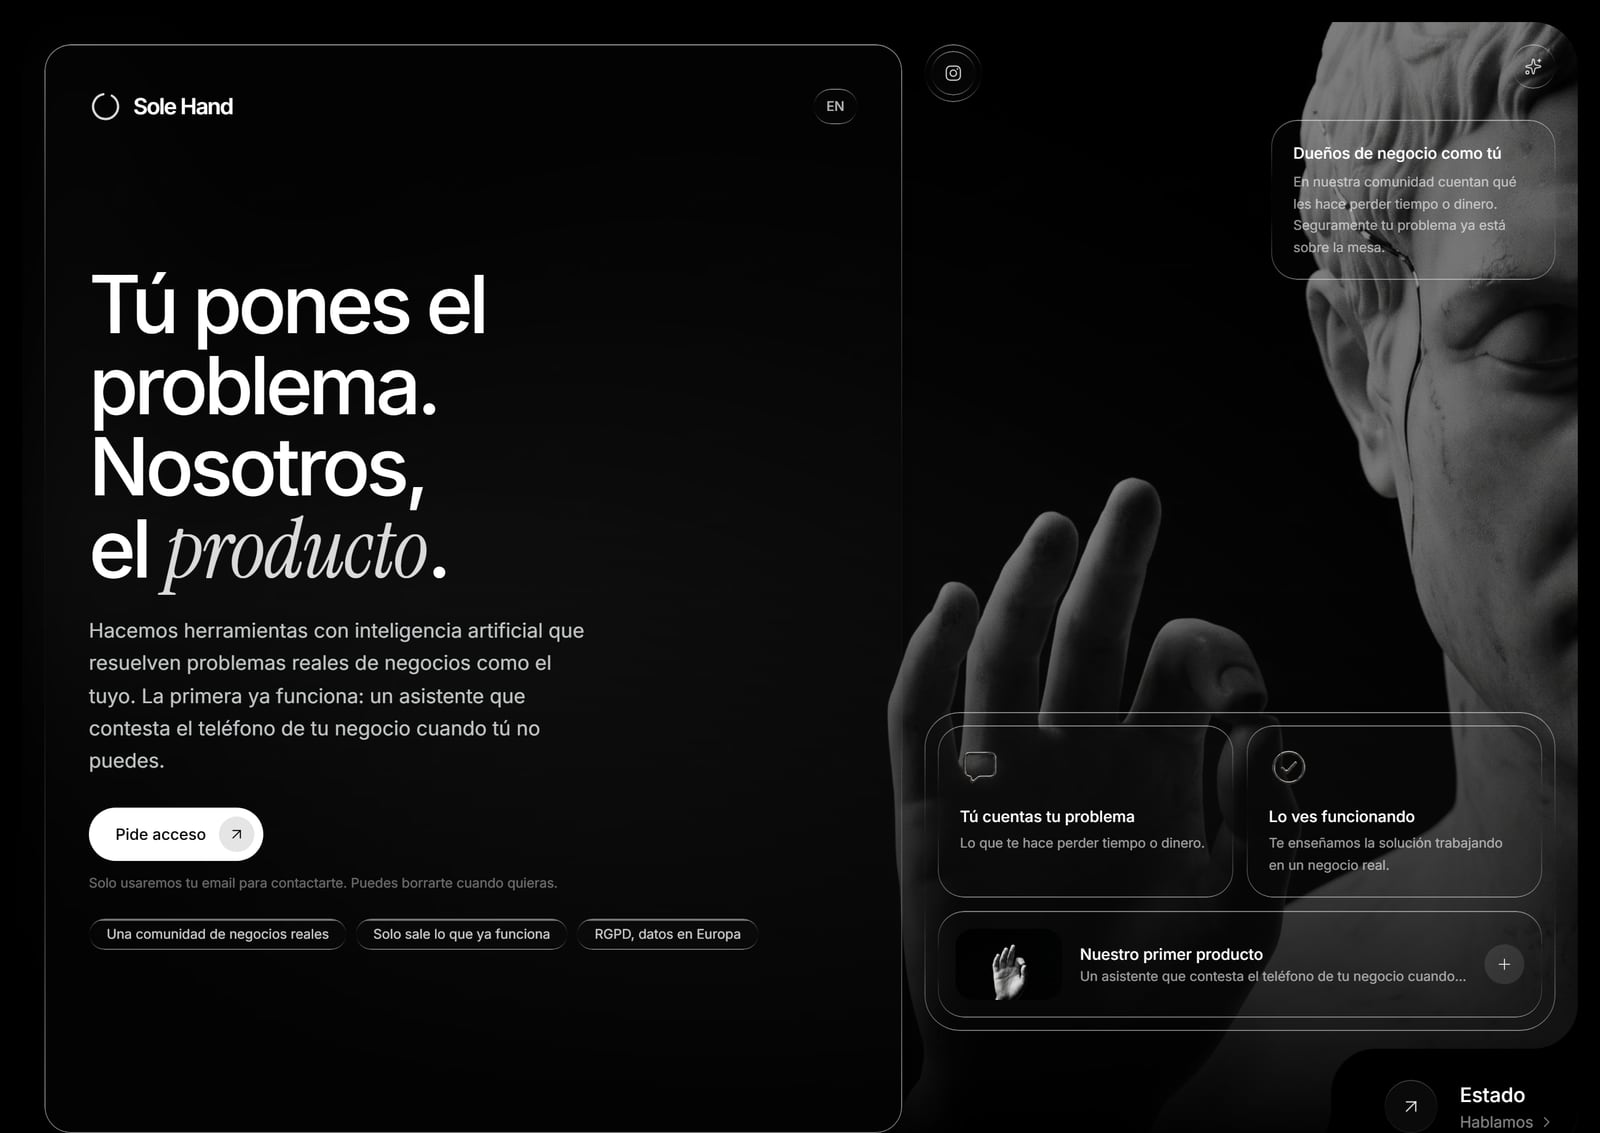
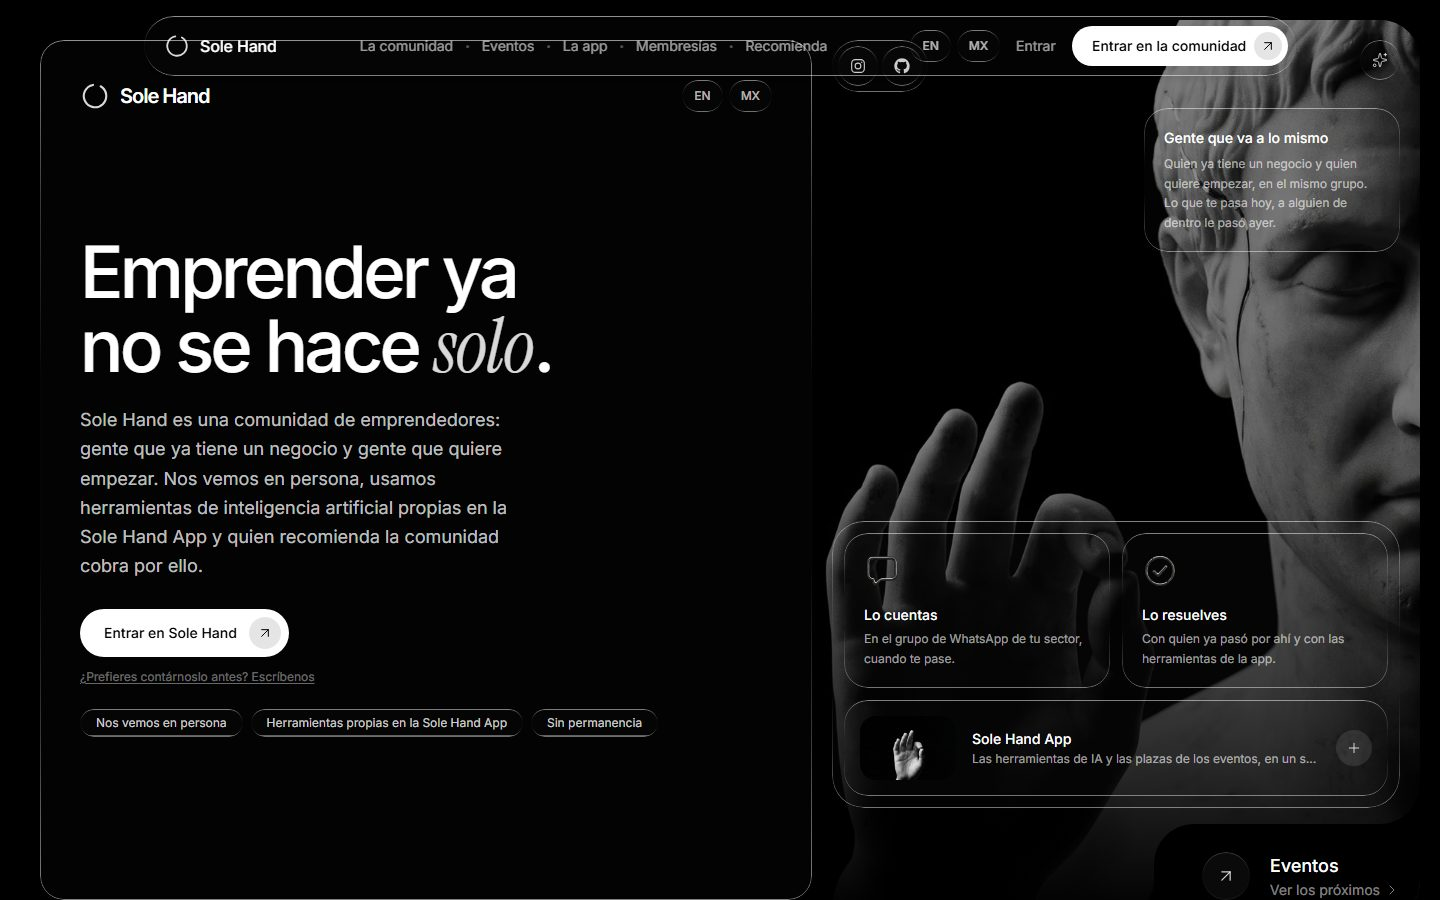
El escaparate cuenta la comunidad de emprendedores: README bilingüe sin precios, capturas de la web nueva y bitácora al día

diff --git a/README.md b/README.md
@@ -2,120 +2,142 @@
   <img src="media/marca.png" alt="Sole Hand" width="340">
 </p>
 
-<h3 align="center">Tú pones el problema. Nosotros, el producto.</h3>
+<h3 align="center">Emprender ya no se hace solo.</h3>
 
 <p align="center">
-  <a href="https://solehand.com">solehand.com</a> · español / english
+  <a href="https://solehand.com">solehand.com</a> · <a href="#español">español</a> / <a href="#english">english</a>
 </p>
 
 ---
 
-Sole Hand es una agencia de inteligencia artificial para negocios en España, construida con una regla simple: **no se vende nada que no esté ya funcionando en un negocio real**.
+## Español
 
-Este repositorio es el escaparate público del proyecto: qué se está construyendo, en qué estado está y cómo está hecho por dentro, a nivel de arquitectura. El código de producción vive en repositorios privados.
+Sole Hand es una comunidad de emprendedores: gente que ya tiene un negocio y gente que quiere empezar. Nos vemos en persona, usamos herramientas de inteligencia artificial propias en la Sole Hand App y quien recomienda la comunidad cobra por ello.
+
+Este repositorio es el escaparate público del proyecto: qué se está construyendo, en qué estado está y cómo está hecho por dentro, a nivel de arquitectura. El código de producción vive en repositorios privados. Aquí no hay precios: están en la web, que es donde se auditan.
 
 ![Portada de solehand.com](media/web-hero.jpg)
 
-## Qué hay construido
+### Qué hay construido
 
-### El agente de voz
+#### La comunidad
 
-El primer producto. Un asistente que atiende el teléfono entrante de un negocio cuando su equipo no puede: fuera de horario, cuando comunica o cuando entran varias llamadas a la vez.
-
-| Hace | No hace |
-| --- | --- |
-| Contesta en castellano, sin dejar sonar el teléfono | No decide por el negocio |
-| Recoge la cita completa: nombre, motivo y hora preferida | No escribe directamente en la agenda |
-| Se presenta como asistente virtual nada más descolgar | No se hace pasar por una persona |
-| Deja un resumen claro de cada llamada | No obliga a escuchar grabaciones |
-
-La frontera está puesta a propósito: el agente recoge y entrega, y la última palabra siempre es de una persona. De ahí el nombre del proyecto.
-
-![Sección del agente de voz](media/web-agente.jpg)
-
-### La comunidad
-
-Un grupo privado de dueños de negocio donde cada uno pone sobre la mesa lo que le hace perder tiempo o dinero. Cada dos semanas hay una sesión en directo de 90 minutos: un negocio cuenta su caso y el resto aporta. Dentro se ven las soluciones funcionando antes que nadie.
-
-Empezó en WhatsApp, que era lo que había a mano en agosto para no hacer esperar a nadie, y desde entonces tiene casa propia: la plataforma que se cuenta más abajo. 19 € al mes, sin permanencia. El alta es directa: se registra uno mismo y entra.
+Quien lleva años con su negocio y quien está montando el primero, en el mismo sitio. La conversación vive en grupos de WhatsApp por sector; las quedadas van incluidas en todas las membresías; los eventos y retiros que se organizan llevan su ficha (cuándo, dónde, qué incluye, qué no y en qué membresías va incluida la entrada) y las plazas se reservan desde la app por orden de reserva.
 
 ![Sección de la comunidad](media/web-comunidad.jpg)
 
-### La plataforma
+#### Los eventos
 
-La casa de los socios. Empezó como una comunidad prestada en WhatsApp y hoy es una aplicación propia donde vive todo: la conversación, las sesiones, las herramientas que cada negocio tiene contratadas y la relación con el equipo.
+Nos vemos en persona. Cada evento se publica desde un único fichero de contenido tipado: si a una ficha le falta la fecha, qué incluye, qué no incluye o las membresías que la incluyen, la web no compila. El viaje y los traslados nunca van incluidos, y las plazas nunca se sortean.
 
-![La comunidad por dentro](media/app-comunidad.jpg)
+![Sección de eventos](media/web-eventos.jpg)
 
-**La comunidad, por dentro.** La conversación está repartida en tres canales —los avisos del equipo, la mesa donde se habla y los eventos— y dentro de cada uno hay publicaciones, personas y mensajes directos. Se puede publicar con imágenes y archivos, responder en hilos de hasta tres niveles, reaccionar y seguir a alguien. Lo que en un grupo de WhatsApp se pierde a los dos días, aquí se queda donde se puede encontrar.
+#### La Sole Hand App
 
-| Un hilo abierto | La portada de cada socio |
-| --- | --- |
-| ![Una publicación con sus respuestas](media/app-hilo.jpg) | ![La portada, con lo que toca atender](media/app-portada.jpg) |
+La casa de las herramientas y de los eventos. Dentro viven las herramientas de inteligencia artificial propias, que nacen de los problemas que los socios ponen sobre la mesa y van dentro de la cuota; la reserva de plazas en los eventos; la cuenta de cada socio y, para quien recomienda, su portal de afiliado. Ninguna herramienta es el producto: la comunidad lo es.
 
-**La portada** no es un panel de métricas: es lo que hay que atender hoy. Arriba, una cifra que resume el mes; debajo, lo que está esperando a esa persona en concreto. Cada socio ve su propia actividad y solo la suya.
+![Sección de la app](media/web-app.jpg)
 
-**Las herramientas** se contratan una a una y cada negocio ve las que tiene. Junto a ellas está el laboratorio: lo que se está construyendo ahora mismo, en qué fase va y quién lo pidió. Es la regla del proyecto puesta a la vista, porque cada herramienta sale del problema que alguien contó en la mesa.
+| La portada de cada socio | Las herramientas y el laboratorio | En el móvil |
+| --- | --- | --- |
+| ![La portada](media/app-portada.jpg) | ![Las herramientas](media/app-herramientas.jpg) | ![La app en el móvil](media/app-movil.jpg) |
 
-![Las herramientas y el laboratorio](media/app-herramientas.jpg)
+Por dentro es un backend propio en un servidor europeo: cada dato está protegido por políticas a nivel de fila, de modo que la separación entre lo que puede ver un socio y lo que no la decide la base de datos y no la pantalla. Cada cobro genera su factura; el consentimiento de las condiciones se guarda con su versión íntegra, la fecha y la dirección desde la que se aceptó; y una cuenta se puede borrar de verdad.
 
-Está pensada para el teléfono, que es desde donde se usa de verdad, y se guarda en la pantalla de inicio como una aplicación más sin pasar por ninguna tienda.
+#### Sole Hand Skills
 
-![La plataforma en el móvil](media/app-movil.jpg)
+El programa de seis meses para quien empieza: grupo pequeño, sesión de grupo semanal, mastermind y reunión a solas cada mes, las herramientas de la app y los eventos del semestre. Con fecha de inicio y de fin, sin permanencia y con una garantía de resultados que se revisa a los 90 días con un comité de socios y un founder.
 
-Por dentro es un backend propio en un servidor europeo: cada dato está protegido por políticas a nivel de fila, de modo que la separación entre lo que puede ver un socio y lo que no la decide la base de datos y no la pantalla. El consentimiento de las condiciones se guarda con su versión íntegra, la fecha y la dirección desde la que se aceptó, y una cuenta se puede borrar de verdad: se retira todo lo personal y lo que esa persona escribió en la comunidad se queda sin su nombre, para no dejar a medias las conversaciones de los demás.
+![Página del programa](media/web-skills.jpg)
 
-### La web
+#### Recomienda y cobra
 
-Bilingüe español / inglés: cada idioma tiene su URL propia, generada en build con su título, sus metadatos y sus datos estructurados, y las dos versiones se declaran mutuamente con hreflang. Diseño propio sobre una dirección de arte de mármol y cromo, con animación medida y una regla de copy que se aplica a todo el proyecto: lo tiene que entender un niño de 5 años y un abuelo de 80.
+Recomendar es gratis, no exige ser socio y se cobra solo por membresías que se pagan y se usan. Las reglas están escritas y a la vista, y hay un aviso claro: lo que se cobra depende de a quién se traiga y de que se quede.
+
+![Página de recomendar](media/web-afiliados.jpg)
+
+#### La web
+
+Trilingüe: español, inglés y una variante para México, cada una con su URL, sus metadatos y sus datos estructurados generados en build. Prerrenderizada entera para que los rastreadores que no ejecutan JavaScript la lean. Y con guardas que rompen el build si el copy contradice la marca, si un precio no cuadra con lo que cobra la app o si un color baja del contraste mínimo.
 
 | Móvil | Inglés | La página /hablamos |
 | --- | --- | --- |
 | ![Versión móvil](media/web-movil.jpg) | ![Home en inglés](media/web-en.jpg) | ![Formulario de contacto](media/web-hablamos.jpg) |
 
-## Estado del proyecto
+### Estado del proyecto
 
-Actualizado a 24 de agosto de 2026.
+Actualizado a 8 de septiembre de 2026.
 
-| Módulo | Estado | Progreso |
-| --- | --- | --- |
-| Web pública bilingüe | En producción en solehand.com | `█████████░` 92 % |
-| Plataforma de socios | En producción, con alta abierta | `████████░░` 80 % |
-| Servicio de captación de leads | En producción | `█████████░` 88 % |
-| Comunidad | Abierta, se entra sin esperar | `████████░░` 80 % |
-| Agente de voz v1 | En piloto | `██████░░░░` 55 % |
-| Contenido y marca en redes | En curso | `██████░░░░` 65 % |
-| Portal de afiliados | En producción, primera versión | `█████░░░░░` 50 % |
-| Cobro con tarjeta | Lo siguiente | `█░░░░░░░░░` 10 % |
-| Confirmación de citas | En diseño | `█░░░░░░░░░` 10 % |
-| Recursos gratuitos | Carpeta abierta, primeros en preparación | `█░░░░░░░░░` 5 % |
+| Módulo | Estado |
+| --- | --- |
+| Web pública trilingüe | Remodelada para la comunidad de emprendedores; pendiente de revisión legal antes de publicar |
+| Sole Hand App | En producción; en migración: la conversación pasa a WhatsApp y entran los eventos, el programa y las comisiones por niveles |
+| Comunidad | Abierta, con alta directa |
+| Eventos | Fichas y reserva desde la app en construcción |
+| Sole Hand Skills | Programa definido; el cobro se despliega con la app |
+| Recomienda y cobra | Primera versión en producción; segundo nivel en construcción |
+| Herramientas de IA | La primera (un asistente que contesta el teléfono) en piloto; catálogo vivo |
+| Cobro con tarjeta y factura por cobro | En producción |
 
 La bitácora completa, con los hitos fechados, está en [docs/bitacora.md](docs/bitacora.md).
 
-## Cómo está hecho
+### Cómo está hecho
 
 Resumen rápido; el detalle está en [docs/arquitectura.md](docs/arquitectura.md).
 
-- **Frontend:** React 18 + Vite + TypeScript, Tailwind CSS 4 y GSAP para el movimiento. Sin router: la web es una pieza única con anclas, y en build se genera una URL propia por idioma con sus metadatos y su hreflang.
-- **Plataforma:** React 18 + Vite + TypeScript, Tailwind CSS 4 y react-router, contra un backend propio autoalojado en Europa (PostgreSQL con políticas por fila, autenticación y funciones en el borde). Aplicación web instalable, con su propio service worker. Bilingüe como la web, y un sistema de diseño con contratos que se verifican solos en cada build: los contrastes se recalculan, los tamaños y los colores salen de una escala única y las capturas de las pantallas se revisan enteras antes de cada despliegue.
-- **Leads:** servicio propio en Node, separado de la web, que recibe el formulario, avisa al equipo y responde al interesado. Sin plataformas de marketing por medio: los detalles del interesado viajan solo por el correo de la empresa.
-- **Infraestructura:** contenedores Docker detrás de nginx en un VPS propio, con cabeceras de seguridad configuradas a mano y HTML sin caché para que los cambios se vean al instante.
-- **Cumplimiento desde el diseño:** el agente se presenta como asistente virtual al descolgar, como exige el artículo 50 del Reglamento Europeo de IA, y está diseñado para que los datos se procesen en infraestructura europea. La web no usa cookies de rastreo.
+- **Web:** React 18 + Vite + TypeScript, Tailwind CSS 4 y GSAP para el movimiento. Sin router: enrutado por expresiones regulares y una URL propia por idioma generada en build, con hreflang y sitemap. Prerrender con Playwright y cuatro auditorías en cada build (copy, precios, contraste y locale).
+- **Sole Hand App:** React 18 + Vite + TypeScript, Tailwind CSS 4 y react-router, contra un backend propio autoalojado en Europa (PostgreSQL con políticas por fila, autenticación, funciones en el borde). Aplicación web instalable. Cobro con tarjeta y factura automática por cada cobro.
+- **Leads:** servicio propio en Node, separado de la web, que recibe el formulario, avisa al equipo y responde al interesado.
+- **Infraestructura:** contenedores Docker detrás de nginx en un VPS propio, con cabeceras de seguridad configuradas a mano y HTML sin caché.
+- **Cumplimiento desde el diseño:** las herramientas se presentan como asistentes, como exige el artículo 50 del Reglamento Europeo de IA; los datos se procesan en infraestructura europea; la web no usa cookies de rastreo; 14 días de desistimiento y baja en un clic.
 
-## Dirección de arte
+### Dirección de arte
 
-Toda la marca vive en un mismo mundo: mármol de Carrara, cromo y negro. El símbolo es un enso, un círculo abierto: la inteligencia artificial hace el trabajo y una mano humana, la última, decide. Las piezas para redes se componen con un sistema propio que garantiza que cada publicación sale del mismo molde.
+Negro, blanco y una rampa de seis verdes: un tono, varios valores. El símbolo es un enso, un círculo abierto: la inteligencia artificial hace el trabajo y una mano humana, la última, decide. La fotografía de mármol de la primera etapa sigue en la web hasta que entren las fotos reales de los eventos.
 
 ![Portadas de la serie para redes](media/social-portadas.jpg)
 
-## Recursos gratuitos
+### Recursos gratuitos
 
-En [recursos/](recursos/) irán las guías, plantillas y pequeñas herramientas que el proyecto libere gratis. La regla es la de siempre: solo se publica lo que ya se ha usado de verdad por dentro. De momento la carpeta está recién abierta y lo dice tal cual.
+En [recursos/](recursos/) irán las guías, plantillas y pequeñas herramientas que el proyecto libere gratis. La regla es la de siempre: solo se publica lo que ya se ha usado de verdad por dentro.
 
-## Contacto
+### Contacto
 
 El proyecto se puede ver funcionando en [solehand.com](https://solehand.com). Para hablar del proyecto, el formulario de [solehand.com/hablamos](https://solehand.com/hablamos).
 
 ---
 
-© 2026 Daniel Brosed. Este repositorio es material de portfolio; el código de producción no es público.
+## English
+
+Sole Hand is a community of entrepreneurs: people who already run a business and people who want to start one. We meet in person, we use our own artificial intelligence tools inside the Sole Hand App, and whoever recommends the community gets paid for it.
+
+This repository is the project's public showcase: what is being built, where it stands and how it is made, at architecture level. Production code lives in private repositories. There are no prices here: they live on the website, where they are audited.
+
+### What is built
+
+- **The community.** People with a running business and people building their first one, in the same place. The conversation lives in WhatsApp groups by sector; meetups are included in every membership; events and retreats come with their own card (when, where, what is included, what is not, and which memberships include the ticket) and seats are booked from the app on a first-come basis.
+- **The events.** We meet in person. Every event is published from a single typed content file: if a card is missing its date, what is included, what is not or the memberships that include it, the site does not compile. Travel is never included and seats are never raffled.
+- **The Sole Hand App.** The home of the tools and the events: our own AI tools (born from the problems members put on the table and included in the fee), event bookings, each member's account and, for those who recommend, their affiliate portal. No tool is the product: the community is.
+- **Sole Hand Skills.** The six-month programme for people starting out: a small group, a weekly session, a monthly mastermind and one-to-one, the app's tools and the semester's events. Start and end dates, no lock-in, and a results guarantee reviewed at 90 days by a committee of members and a founder.
+- **Recommend and earn.** Recommending is free, does not require membership and pays only on memberships that are paid for and used. The rules are written and visible, with a plain warning: what you earn depends on who you bring and on whether they stay.
+- **The website.** Spanish, English and a Mexican variant, each with its own URL, metadata and structured data generated at build time. Fully prerendered so crawlers that do not run JavaScript can read it, with build guards that fail if the copy contradicts the brand, a price does not match what the app charges, or a colour drops below the minimum contrast.
+
+### How it is made
+
+- **Website:** React 18 + Vite + TypeScript, Tailwind CSS 4 and GSAP. No router library: regex routing and one URL per language generated at build, with hreflang and sitemap. Playwright prerender and four audits on every build (copy, prices, contrast and locale).
+- **Sole Hand App:** React 18 + Vite + TypeScript, Tailwind CSS 4 and react-router, against a self-hosted backend in Europe (PostgreSQL with row-level policies, auth, edge functions). Installable web app. Card payments with an automatic invoice per charge.
+- **Leads:** a small Node service, separate from the site, that receives the form, alerts the team and replies to the person.
+- **Infrastructure:** Docker containers behind nginx on our own VPS, hand-configured security headers and uncached HTML.
+- **Compliance by design:** the tools introduce themselves as assistants, as Article 50 of the EU AI Act requires; data is processed on European infrastructure; the site uses no tracking cookies; 14-day withdrawal and one-click cancellation.
+
+### Art direction
+
+Black, white and a ramp of six greens: one hue, several values. The symbol is an enso, an open circle: artificial intelligence does the work and a human hand, the last one, decides.
+
+### Contact
+
+See it running at [solehand.com](https://solehand.com). To talk about the project, the form at [solehand.com/hablamos](https://solehand.com/hablamos).
+
+---
+
+© 2026 Daniel Brosed. Este repositorio es material de portfolio; el código de producción no es público. / This repository is portfolio material; production code is not public.

diff --git a/docs/bitacora.md b/docs/bitacora.md
@@ -2,6 +2,10 @@
 
 Los hitos del proyecto, con sus fechas. Se actualiza a medida que avanza.
 
+## Septiembre de 2026
+
+**8 de septiembre.** El proyecto se redefine: Sole Hand pasa a contarse como una comunidad de emprendedores que se ve en persona, con las herramientas de inteligencia artificial dentro de la Sole Hand App, un programa de seis meses para quien empieza (Sole Hand Skills) y un programa de recomendación con reglas a la vista. La web se remodela entera en tres idiomas, con paleta nueva (negro, blanco y verdes), páginas de eventos y del programa, y guardas de build que vigilan el copy, los precios y el contraste. La conversación de la comunidad vuelve a WhatsApp; la app conserva las herramientas, los eventos, la cuenta y el portal de afiliados.
+
 ## Agosto de 2026
 
 **24 de agosto.** El alta deja de tener cola: quien llega se registra y entra, como socio o como afiliado, sin solicitud que nadie tenga que aprobar. La comunidad se vacía de los datos de demostración y queda lista para la gente de verdad.
